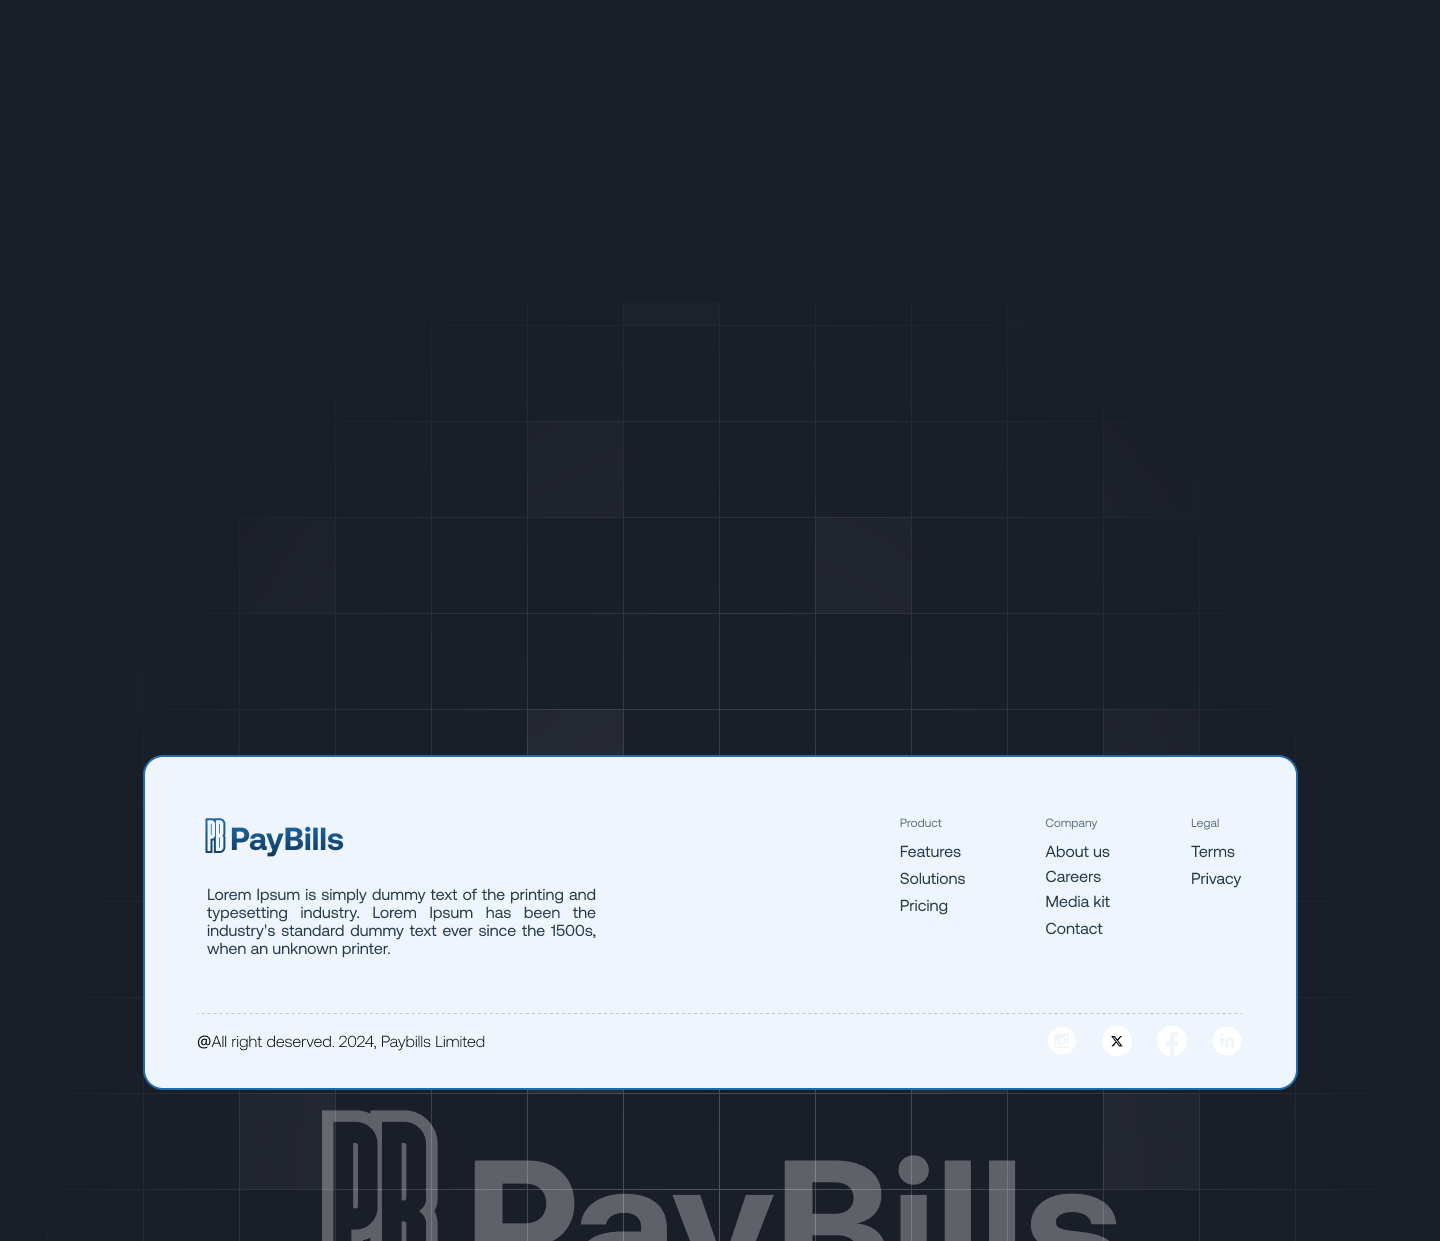
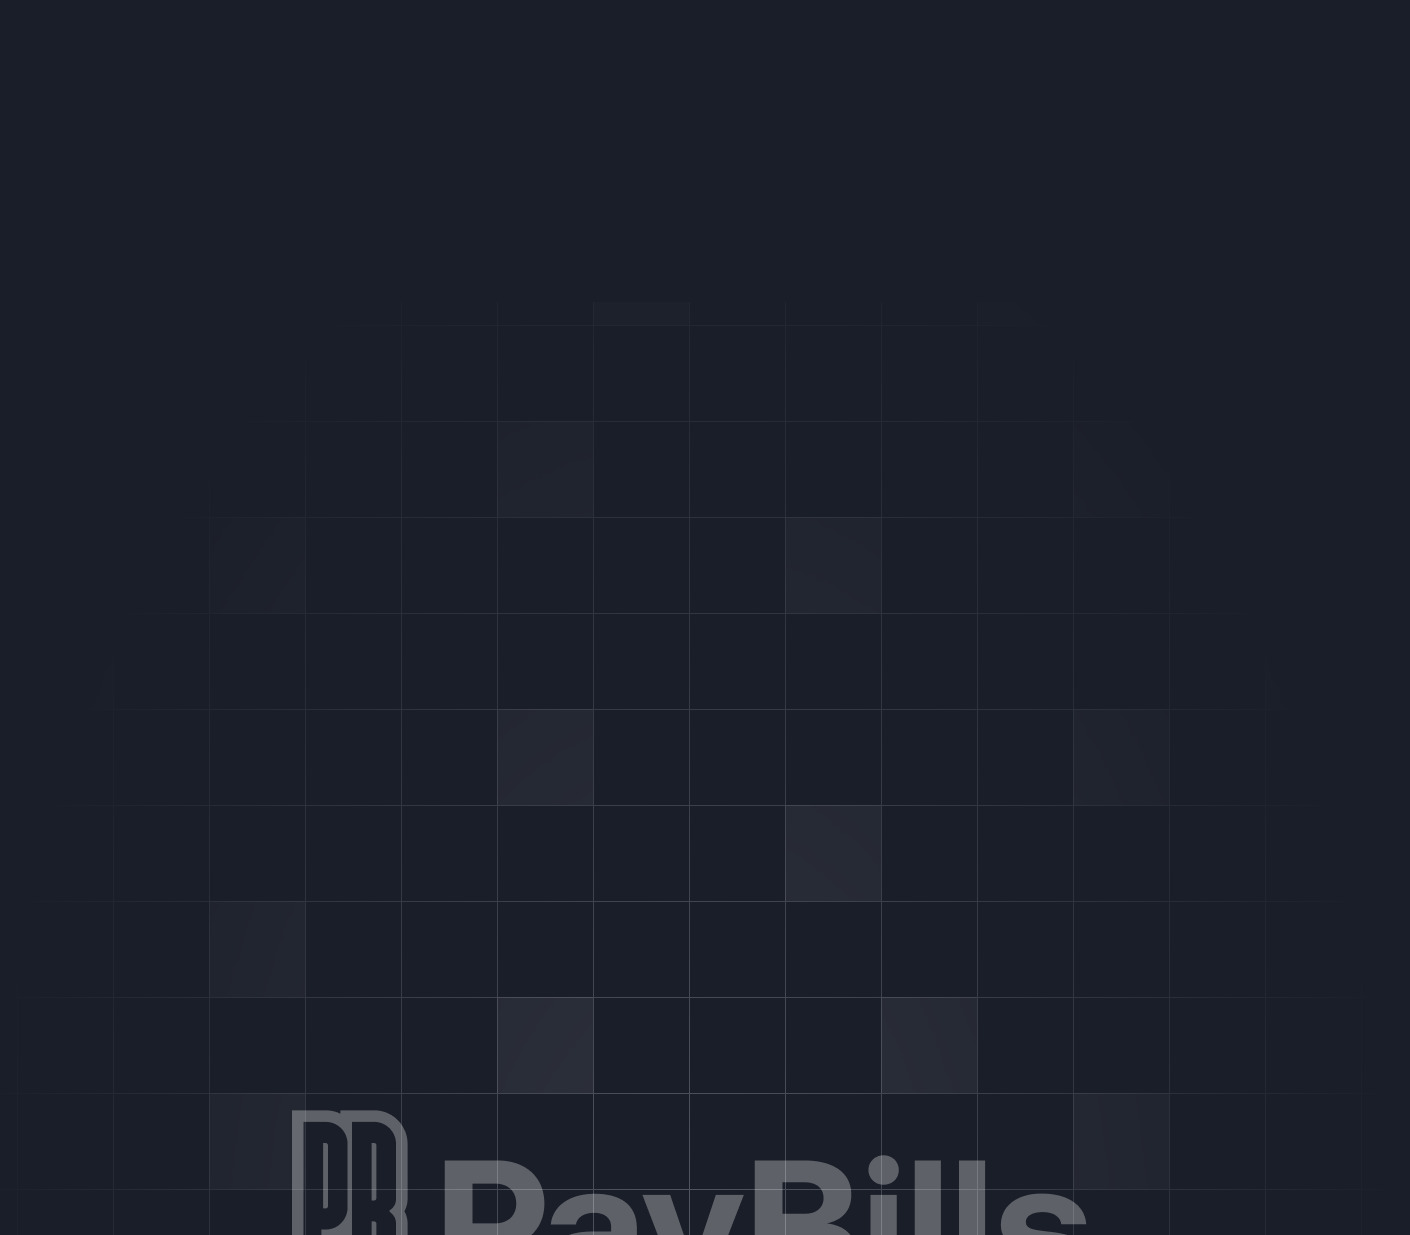
commited

Changed region(s): [[0.0936, 0.5846, 0.905, 1.0]]

diff --git a/src/Component/FAQ.jsx b/src/Component/FAQ.jsx
@@ -3,6 +3,7 @@
 import React, { useState } from 'react';
 import { FaPlus, FaMinus } from 'react-icons/fa'; // Import plus and minus icons
 import '../Styled/Faq.css'; // Import your CSS file
+import { IoIosPhonePortrait } from "react-icons/io";
 
 const FAQ = () => {
   const [expanded, setExpanded] = useState(null);
@@ -20,6 +21,7 @@ const FAQ = () => {
   };
 
   return (
+  <>
    <div className="containers">
      <div className="faq-container">
       <h1>Frequently Asked Questions</h1>
@@ -41,7 +43,15 @@ const FAQ = () => {
         </div>
       ))}
     </div>
+    
    </div>
+   <div className="context">
+    <div className="icon">
+    <IoIosPhonePortrait color='#fff' size={25}/>
+    </div>
+    <h3>Download the App</h3>
+   </div>
+  </>
   );
 };
 

diff --git a/src/Component/Main.jsx b/src/Component/Main.jsx
@@ -9,6 +9,7 @@ import phone from '/phone.png';
 import user1 from '/user1.png';
 import phone2 from '/phone2.png';
 import Group2 from '/Group2.png'
+import Sectiondimg from '/sectiondimg.png'
 
 const Main = () => {
   return (
@@ -99,6 +100,14 @@ const Main = () => {
 
 </div>
 
+
+<div className="sectiond">
+  <div className="sectiond-text">
+    <h3>Your Security, Our <br />Commitment: Ensuring <br />Your Money Stays Safe</h3>
+    <h5>Paybills wants to provide transactions in the safest manner <br />possible. Implementing and developing cutting edge <br /> security processes to protect your data, we are regulated <br /> by NDIC so your money is safe at all time.</h5>
+  </div>
+<img src={Sectiondimg} alt="" />
+</div>
 
       </div>
     </div>

diff --git a/src/Styled/Main.css b/src/Styled/Main.css
@@ -231,9 +231,36 @@ background-image: url('/Frame1.png');
   margin-top: 80%;
 }
 
+.sectiond{
+  display: flex;
+  justify-content: space-between;
+  align-items: center;
+  background-image: url('/sectiond.png');
+  border-radius: 20px;
+  margin-top: 10vh;
+  padding: 20px;
+  color: #fff;
+}
+
+
+
+.sectiond-text h3{
+  font-size: 2.5rem;
+  margin-bottom: 2vh;
+}
+
+.sectiond-text h5{
+  font-size: 1rem;
+  font-weight: 100;
+}
 
 
   @media screen and (max-width: 900px) {
+    .sectiond{
+      flex-direction: column;
+      justify-content: space-between;
+      align-items: center;
+    }
    
     .section-main {
         padding: 2rem;

diff --git a/src/Styled/Footer.css b/src/Styled/Footer.css
@@ -1,8 +1,17 @@
-.footer{
+.footer {
     background-image: url('/footer.png');
     width: 100%;
-    height: 90vh;
+    height: 100vh;
     background-position: center;
-    object-fit: cover;
+    background-size: cover; /* Adjust background size */
     padding: 0rem 2rem;
+    display: flex;
+    align-items: flex-end; 
+    justify-content: center; 
+}
+
+.footer img {
+    max-width: 100%; 
+    height: auto; 
+    object-fit: contain;
 }

diff --git a/src/Styled/Faq.css b/src/Styled/Faq.css
@@ -73,7 +73,23 @@
     max-height: 0;
     opacity: 0;
   }
-  
+
+  .context{
+    display: flex;
+    align-items: center;
+    padding: 1rem 4rem;
+   
+  }
+  .icon{
+    background-color: #1F6CAB;
+    width: 40px;
+    height: 40px;
+    border-radius: 20px;
+    display:flex;
+    justify-content: center;
+    align-items: center;
+
+  }
   @media screen and (max-width: 767px) {
     .containers{
 

diff --git a/src/Component/Footer.jsx b/src/Component/Footer.jsx
@@ -1,10 +1,11 @@
 import React from 'react'
 import '../Styled/Footer.css'
+import bottom from '/bottom.png'
 
 const Footer = () => {
   return (
     <div className="footer">
-        
+        <img src={bottom} alt="" />
     </div>
   )
 }
